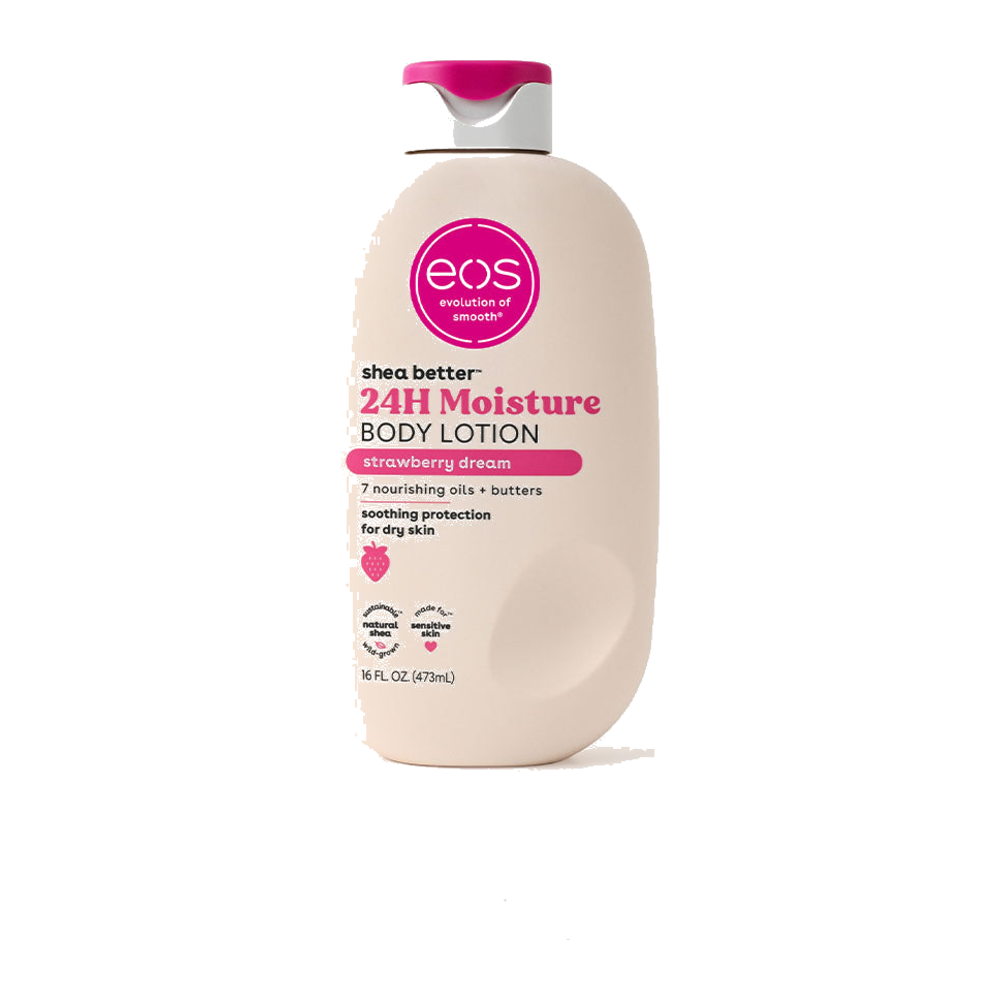
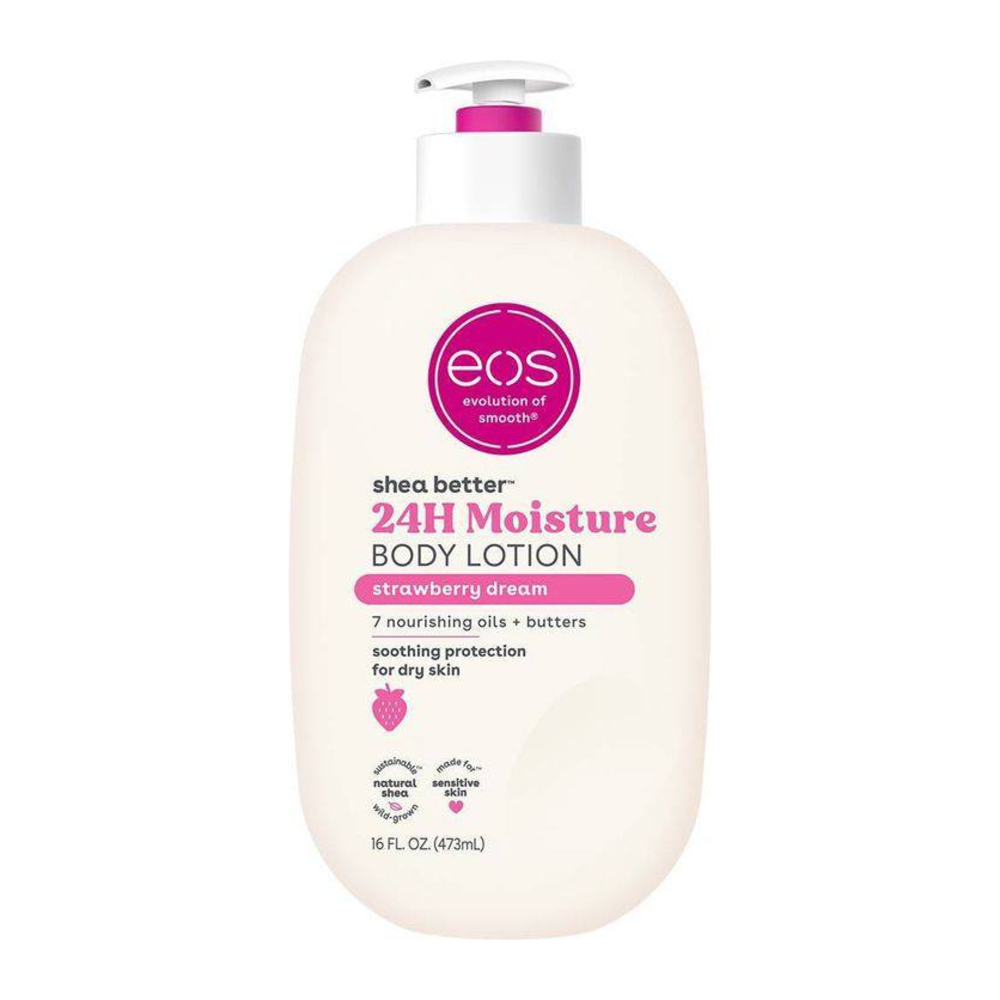
Add the last two body-care photos and the real contact details
Lipikar Lait and the EOS Strawberry Dream lotion, both processed to
the same 1000x1000 pure-white standard. Both are light products on a
light background, so they skip the background lift, which would eat
the bottle.

Puts the owner's address and WhatsApp number in data/store.ts and
reads them on the contact page, so the details live in one place.
The WhatsApp entry now links through to wa.me.

The number is recorded exactly as given. It is 11 digits where Ghana
mobile numbers are normally 10, so store.ts carries a note to check
it before launch. The customer email is still a placeholder.

Changed region(s): [[0.31, 0.062, 0.713, 0.961], [0.279, 0.372, 0.341, 0.868], [0.341, 0.868, 0.372, 0.899]]

diff --git a/frontend/src/pages/Contact.tsx b/frontend/src/pages/Contact.tsx
@@ -2,11 +2,13 @@ import { useState } from 'react'
 import { motion, AnimatePresence } from 'framer-motion'
 import { FiMail, FiPhone, FiMapPin, FiCheck } from 'react-icons/fi'
 import { useApp } from '../contexts/AppContext'
+import { store, whatsappLink } from '../data/store'
 
+// Read from data/store.ts so the details live in one place.
 const info = [
-  { icon: FiMail, label: 'Email', value: 'hello@rumiskincare.com' },
-  { icon: FiPhone, label: 'Phone', value: '+233 24 000 0000' },
-  { icon: FiMapPin, label: 'Studio', value: 'Airport Residential Area, Accra, Ghana' },
+  { icon: FiMail, label: 'Email', value: store.email, href: `mailto:${store.email}` },
+  { icon: FiPhone, label: 'WhatsApp', value: store.phoneLocal, href: whatsappLink },
+  { icon: FiMapPin, label: 'Find Us', value: store.address, href: undefined },
 ]
 
 export default function Contact() {
@@ -57,7 +59,18 @@ export default function Contact() {
                   <p className={`text-[10px] tracking-[0.2em] uppercase font-medium mb-1 ${darkMode ? 'text-[#FAF7F2]/50' : 'text-[#4A4A4A]/70'}`}>
                     {item.label}
                   </p>
-                  <p className={`text-sm font-medium ${darkMode ? 'text-[#FAF7F2]' : 'text-[#2A2A2A]'}`}>{item.value}</p>
+                  {item.href ? (
+                    <a
+                      href={item.href}
+                      target={item.href.startsWith('http') ? '_blank' : undefined}
+                      rel={item.href.startsWith('http') ? 'noreferrer' : undefined}
+                      className={`text-sm font-medium hover:text-[#D3839E] transition-colors ${darkMode ? 'text-[#FAF7F2]' : 'text-[#2A2A2A]'}`}
+                    >
+                      {item.value}
+                    </a>
+                  ) : (
+                    <p className={`text-sm font-medium ${darkMode ? 'text-[#FAF7F2]' : 'text-[#2A2A2A]'}`}>{item.value}</p>
+                  )}
                 </div>
               </div>
             ))}

diff --git a/frontend/src/data/store.ts b/frontend/src/data/store.ts
@@ -4,9 +4,17 @@ export const store = {
   name: 'GLOWWITHRUMI',
   tagline: 'Skincare & Beauty',
 
-  // TODO: replace with the real GLOWWITHRUMI WhatsApp number (international format, digits only).
-  whatsappNumber: '233000000000',
+  // As the owner gave it. Note this is 11 digits — Ghana mobile numbers are
+  // normally 10 (0XX XXX XXXX) — so it is worth checking before launch.
+  phoneLocal: '05494469052',
+  // Same number in international form for wa.me: leading 0 swapped for 233.
+  whatsappNumber: '2335494469052',
   whatsappGreeting: 'Hello GLOWWITHRUMI! I would like to ask about a product.',
+
+  address: 'Grace Nkansah Apartment, Dome, Accra',
+
+  // TODO: replace with the real GLOWWITHRUMI address for customer email.
+  email: 'hello@rumiskincare.com',
 
   // Rotating messages in the announcement bar at the very top of the site.
   announcements: [
